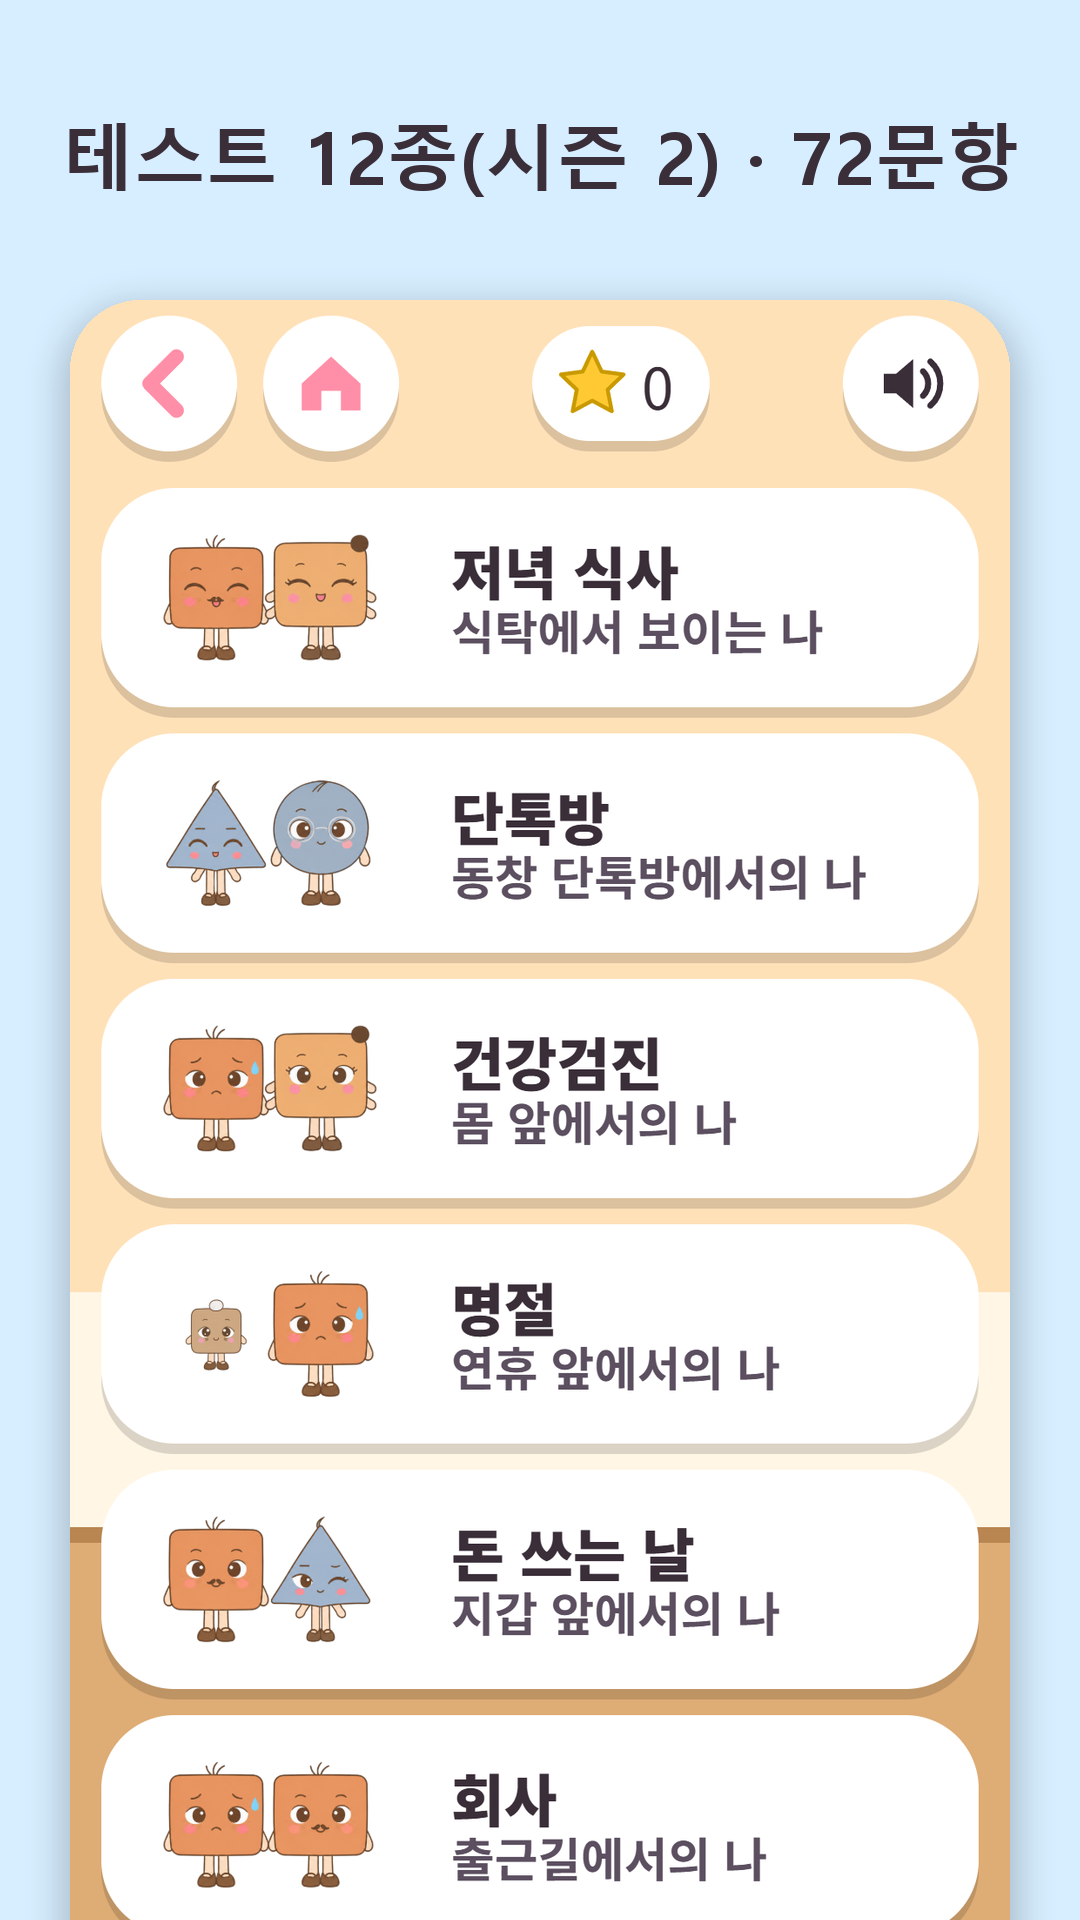
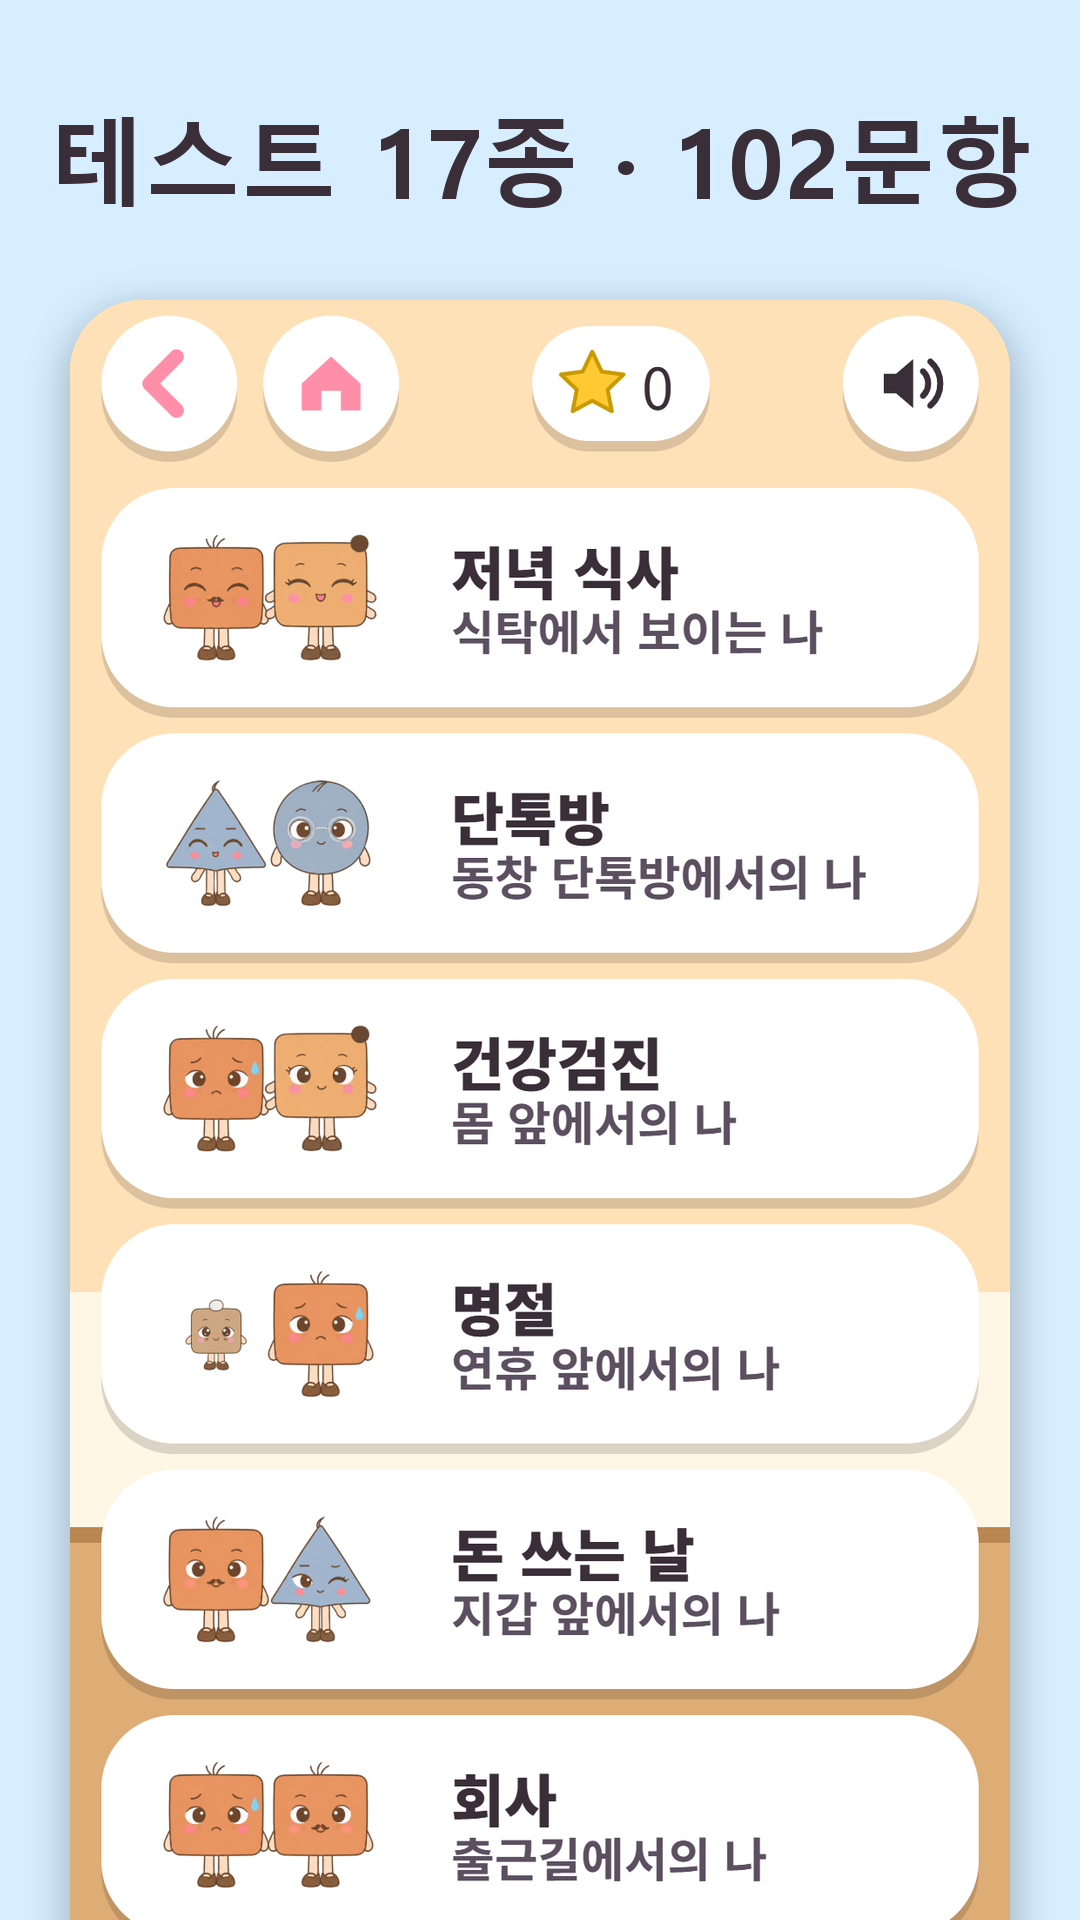
[game] 스토어 캡션 갱신(테스트 17종)
Claude-Session: https://claude.ai/code/session_0186sh1yh8gv8PgkCABAnXYw

Changed region(s): [[0.0306, 0.0625, 0.5806, 0.125], [0.6111, 0.0625, 0.9472, 0.125]]

diff --git a/games/demo/README.md b/games/demo/README.md
@@ -8,7 +8,7 @@
 | ② 세 가족 식탁 | 성인 | 방치형 + 사연 30편 |
 | ③ 도형 합치기 | 만 13세↑ | 120판 + 오늘의 한 판 + 세 가족 판 |
 | ④ 막둥이 색칠북 | 만 3~6세 | 80장 색칠·스티커·벽지 |
-| ⑤ 당신은 어느 도형? | 만 13세↑ | 테스트 12종·미니게임 5종·내 도형 카드 |
+| ⑤ 당신은 어느 도형? | 만 13세↑ | 테스트 17종·미니게임 5종·내 도형 카드 |
 
 - 설치: `INSTALL_ko.md` (APK 5개 · `install_all.bat` · `gf_phone_pack.zip`)
 - 브라우저로 바로: `play_<앱>.html`
